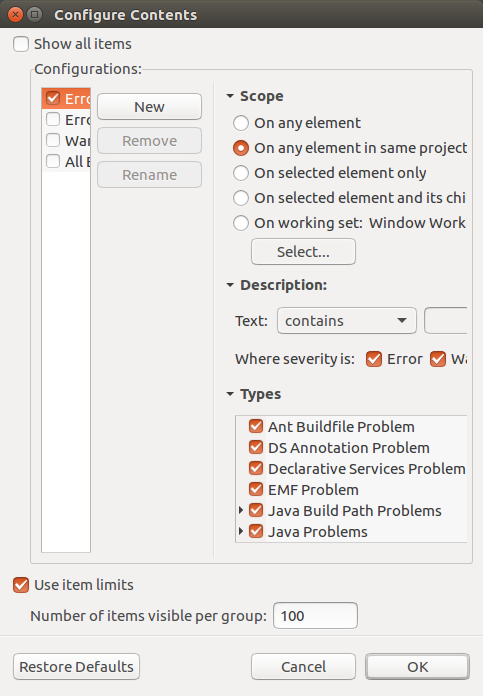
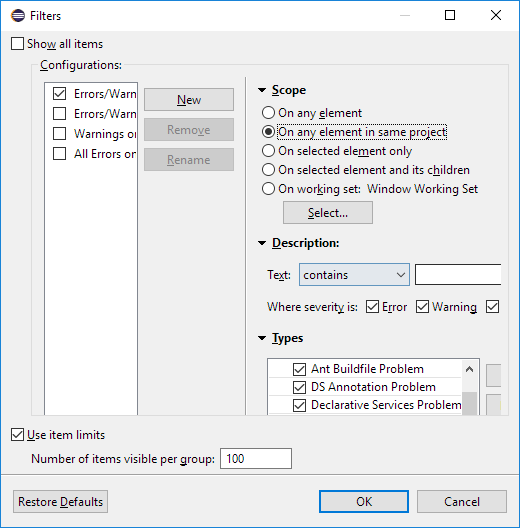
Bug 500517 - [problems view] rename Configure Contents... to Filter...
Updated the icons and the description for the new Filters dialog in N&N for M2

Changed region(s): [[0.0, 0.0, 1.0, 1.0], [0.0, 0.9394, 0.2795, 1.0], [0.0, 0.8788, 0.0311, 0.9091]]

diff --git a/4.7/M2/index.html b/4.7/M2/index.html
@@ -249,7 +249,7 @@
   <tr id="simplified-bookmark-task-problems-filter-dialog">
     <td class="title">Simplified the filter dialog for the Problems, Bookmark and Tasks view</td>
     <td class="content">
-      The filter dialog of the Problems, Bookmark and Tasks view has been simplified.
+      The <em>Filters</em> dialog of the Problems, Bookmark and Tasks view has been renamed and simplified.
       If you select several filter options, items matching any of these filters will be displayed.
       User can still define custom filters to specify the items which should be selected.
       <p>
